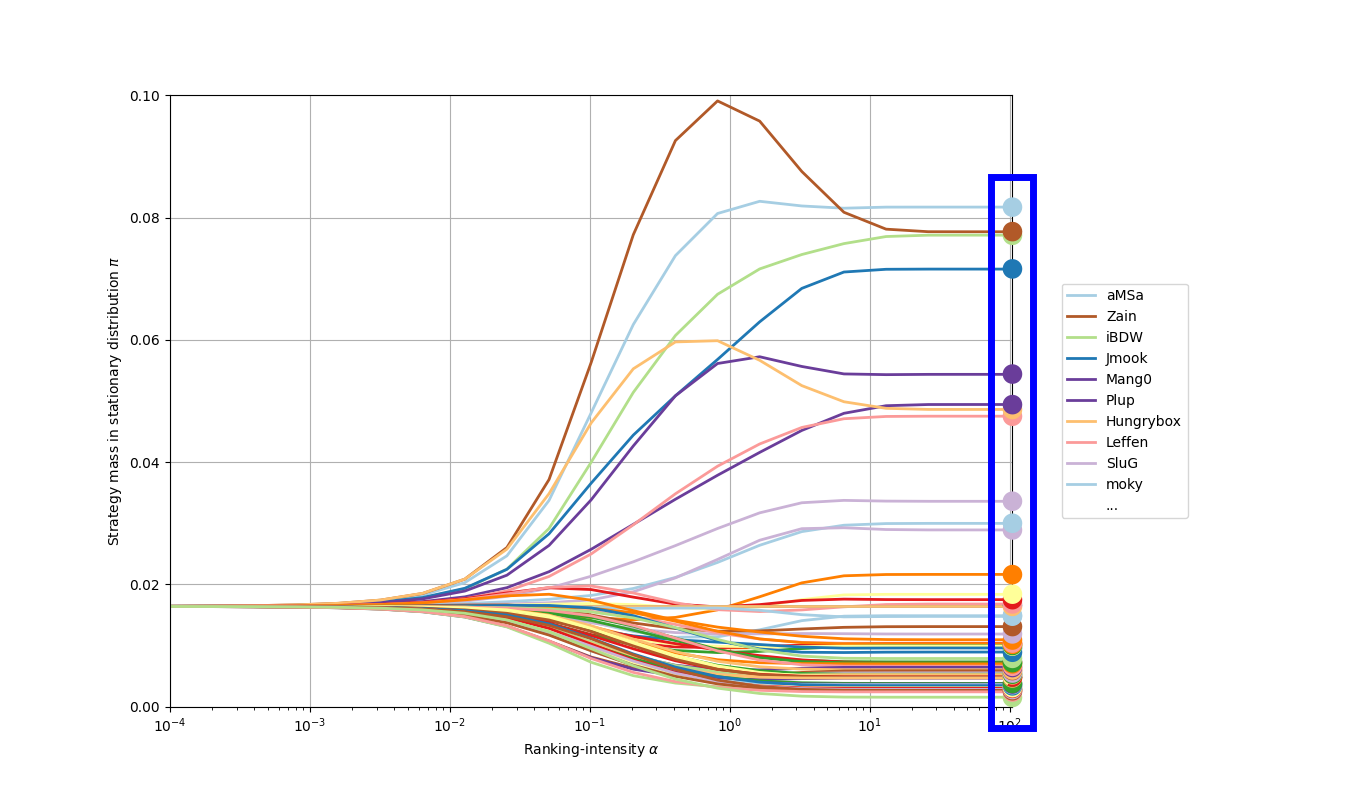
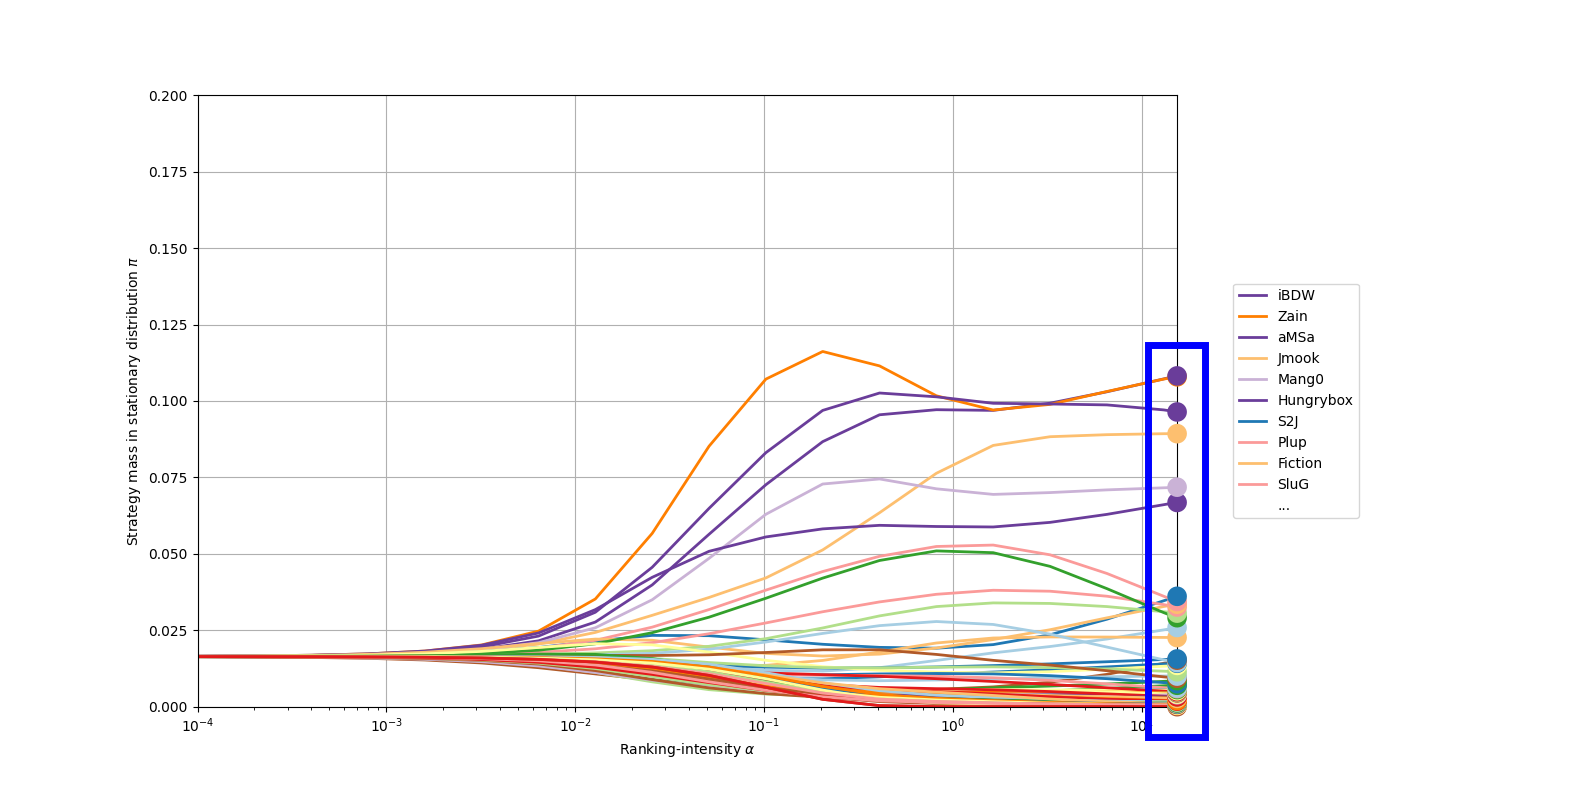
Update README and fix bugs

diff --git a/alpha_smash.py b/alpha_smash.py
@@ -23,8 +23,8 @@ if __name__ == "__main__":
     payoff_tables = [heuristic_payoff_table.from_matrix_game(matrix_list)]
 
     # Perform sweep of alpha hyperparameter and visualize results
+    player_names = parse_player_names()
     if args.alphasweep:
-        player_names = parse_player_names()
         res = alpharank.sweep_pi_vs_alpha(payoff_tables, visualize=True, return_alpha=True, strat_labels=player_names, legend_sort_clusters=True)
 
     # Check if the game is symmetric (i.e., players have identical strategy sets

diff --git a/README.md b/README.md
@@ -1,62 +1,153 @@
-# Using AlphaRank to rank Smash pros
+# Using AlphaRank to Rank Smash Pros
+**I am not claiming that these are the definitive ranks for this year, I am simply hoping to introduce the community to an exciting new tool that came out of game theory research recently**
+**Please do NOT use this tool for seeding without fully understanding the method or at least consulting me.**
+
 This is a simple script that uses DeepMind's [AlphaRank algorithm](https://arxiv.org/abs/1903.01373) to rank the top 10 Super Smash Bros Melee players for 2022 (so far). (Fair warning: this paper is extremely complicated, I've attempted to explain the core concepts in this README).
 
-AlphaRank is a new game-theoretic evaluation metric for ranking players in a game. Game-theoretic evaluation tools use game-theory (hence the name) to measure players by taking into account *non-transitivity*. Non-transitivity refers to the possibility that player A > B and B > C and yet C > A. The best example of this is the game rock paper scissors, which is entirely non-transitive. 
+When you evaluate head-to-head matchups, you intuitively value certain head-to-heads more than others. An advantage over the #1 best player is obviously more important than the 50th best player. However, if you rank players using head-to-heads, this ranking becomes cyclic (with a huge branching factor equal to the number of players).
 
-Most other metrics assume that games are roughly transitive. For example, they assume that if player A places higher than player B in a tournament, then player A is better than player B. This is not necessarily true, and in fact player A can lose to B and still win the tournament in a double elimination bracket. This happens every time someone makes a losers run.
+AlphaRank is a new game-theoretic evaluation metric for ranking players in a game. Game-theoretic evaluation tools use game-theory (hence the name) to measure players by taking into account *non-transitivity*. Non-transitivity refers to the possibility that player A > B and B > C and yet C > A. The simplest example of this is the game rock paper scissors, which is entirely non-transitive. 
 
-AlphaRank creates a meta-game of players and uses all of the head-to-head counts between players to determine who is the best. It measures each player's "value" according to who they can beat in a head-to-head, weighted according to their opponent's value. (i.e. beating Hugs86 gives you less value than beating Zain). Since AlphaRank analyzes overall winrates, it has no recency bias.
+Most metrics (like those based on torunament placements) assume that games are roughly transitive. For example, they assume that if player A places higher than player B in a tournament, then player A is better than player B. This is not necessarily true, and in fact player A can lose to B and still win the tournament in a double elimination bracket. This happens every time someone wins from the losers bracket, and many other times throughout the tournament.
+
+AlphaRank creates a meta-game of players and uses all of the head-to-head counts between players to determine who is the best. It measures each player's "value" according to who they can beat in a head-to-head, weighted according to their opponent's value (also calclated from head-to-heads). (i.e. beating Hugs86 gives you less value than beating Zain). Also, since AlphaRank analyzes overall winrates, it has no recency bias.
+
+# Usage
+To rank smash players using data.csv, you can use the command:
+```
+python3 alpha_smash.py
+```
+
+To visualize a sweep over the alpha hyperparameter and the dynamics of the metagame with n players you can use the following options:
+
+```
+python3 alpha_smash.py --alphasweep --n_network 10
+```
+
+For more info, use:
+```
+python3 alpha_smash.py --help
+```
 
 
-# How to interpret the results
+# How to Interpret the Results
 Imagine that you are having a competition with another person, and you each get to choose one smash pro as your champion. Let's say you play this game over and over. How would you decide who to pick? You could always choose the player with the highest overall head-to-head winrate (Leffen). However, if your opponent picked Mango, you would lose, because Mango wins that head-to-head in 2022. Therefore, there's a meta-game of choosing strong players, but also varying your choice enough to avoid being predictable. Clearly some players are stronger (IBDW wins more head-to-heads than Axe), but each player can win some matchups. 
 The value in parentheses in the rankings below represents the percent of time that a particular player would be selected by the optimal strategy for this game. The players are ranked in order of who has the highest value, in essence, who is picked the most often in this imaginary meta-game.
 
-**TL;DR** If you could choose one pro to fight for you, AlphaRank measures how often you should pick each player. This is based on their head-to-head winrates weighted according to the strength of the opponent for each head-to-head.
+**Note: The bottom 20-30 players are included because of their effect on the top players, but the rankings assigned to them by Alpha-Rank are inherently less accurate due to the nature of Alpha-Rank and smash competition (high-level players interact more than low-level players). Please don't read too closely into the lower ranks. We would need to include more players to accurately rank them.**
 
-**I am not claiming that these are the definitive ranks for this year, I am simply hoping to introduce the community to an exciting new tool that came out of game theory research recently**
-**Please do NOT use this tool for seeding without fully understanding the method or consulting me**
-
-
-# RESULTS: 2022 Ranking (so far)
-1. Amsa (0.234)
-2. IBDW (0.200)
-3. Zain (0.150)
-4. Mango (0.131)
-5. Leffen (0.106)
-6. Plup (0.085)
-7. Jmook (0.062)
-8. Hbox (0.015)
-9. Wizzrobe (0.008)
-10. Axe (0.001)
+**TL;DR** If you could choose one pro to fight for you, Alpha-Rank measures how often you should pick each player. This is based on their head-to-head winrates weighted according to the strength of the opponent in each head-to-head.
 
 
-# Interesting findings
-* Axe is slightly favored against Jmook, but ranked lower than Wizzrobe who has no winning matchups, but is even against Amsa (the top rated player) .
-* IBDW wins against every player except Amsa, Mango, and Wizzrobe. Amsa has a good winrate against Mango. It's likely that if Mango gets worse (and his value in the meta-game decreases), then IBDW will surpass Amsa.
-* 
+# RESULTS: 2022 Ranking (So far)
+Player          Rank         Score
+------          ----         -----
+Zain            1            0.1057
+iBDW            2            0.1055
+aMSa            3            0.0979
+Jmook           4            0.0892
+Mang0           5            0.0713
+Hungrybox       6            0.0648
+Plup            7            0.0391
+SluG            8            0.0346
+Leffen          9            0.0337
+S2J             10           0.0323
+moky            11           0.0318
+Fiction         12           0.0314
+Axe             13           0.0239
+Joshman         14           0.0227
+lloD            15           0.0169
+Pipsqueak       16           0.0151
+Krudo           17           0.0136
+KoDoRiN         18           0.0128
+null            19           0.0127
+Ginger          20           0.0119
+Aklo            21           0.0105
+SFAT            22           0.0100
+n0ne            23           0.0084
+Lucky           24           0.0079
+Polish          25           0.0067
+2saint          26           0.0065
+Spark           27           0.0056
+Soonsay         28           0.0055
+Magi            29           0.0054
+Salt            30           0.0053
+Zuppy           30           0.0053
+Mekk            31           0.0047
+The SWOOPER     32           0.0045
+bobby big ballz 33           0.0044
+Jflex           33           0.0044
+Wizzrobe        34           0.0037
+Suf             35           0.0036
+Bbatts          36           0.0034
+Zamu            37           0.0032
+Skerzo          38           0.0030
+Ben             38           0.0030
+Smashdaddy      39           0.0023
+KJH             40           0.0021
+Frenzy          41           0.0017
+Medz            42           0.0016
+Aura            43           0.0013
+Panda           43           0.0013
+Professor Pro   44           0.0011
+Albert          45           0.0009
+Swift           46           0.0008
+Solobattle      46           0.0008
+Chem            47           0.0007
+Faceroll        47           0.0007
+Kalamazhu       47           0.0007
+Eddy Mexico     48           0.0006
+Logan           49           0.0005
+Colbol          49           0.0005
+Trif            49           0.0005
+Gahtzu          50           0.0004
+Ice             51           0.0000
+Nicki           51           0.0000
 
 
-# Data collection
-The data used for these calculations can be found here: [https://docs.google.com/spreadsheets/d/1aKbdUyHWW5xR4jzMKRa1YdHeQMvcz744I5VtEYn8EVs/edit?usp=sharing](https://docs.google.com/spreadsheets/d/1aKbdUyHWW5xR4jzMKRa1YdHeQMvcz744I5VtEYn8EVs/edit?usp=sharing)
+# Interesting Findings
+* Zain and IBDW are effectively tied for Rank 1. Either of them could easily edge out #1 by winning the upcoming tournaments.
+* The top 6 players are clearly separated from the rest. Zain, IBDW, aMSa, JMook, Mang0, and HungryBox have significantly more value than Plup, the next highest player.
+* While top 6 is clearly above the rest, each player in that tier has a noticeable drop in value from the previous rank, indicating a high level of confidence in the ordering of top 6.
+* The next 5 players (rank 7 - 12) Plup, Slug, Leffen, S2J and Fiction are all close to each other, and noticeably higher valued than rank 13 and below. We see a clear Top 6 tier and Top 12 tier in these results.
+* The rankings become less well definined the farther down the list we go. There are far more ties below rank 30. I recommend not reading into ranks below 30 too much, as they are clearly less accurate.
+* I included Ice and Nicki because they have 0 tournament sets this year (according to my data) to demonstrate that the attendance bonus causes these players to be ranked last.
+* It is possible for top players to win so many matchups that weaker players have a value of 0.0 in the meta-game. The fact that all players (aside from Nikki and Ice who have 0 attendance) have some value in the meta-game is a good sign for the health of the game.
 
-Thanks to ASAP_Hari on twitch for collecting most of the data that I used. The winrates used in this project come from liquipedia. I used data from offline-only supermajor, major, and invitational tournaments held Jan 1 - November 21, 2022 (including Apex 2022).
 
-# Winrate calculation
-Formula ($w_A$ - $w_B$) / ($w_A$ + $w_B$) where $w_A$ and $w_B$ are the set wins for players A and B respectively
-i.e. 0.00 represents a 50% winrate, 1.00 represents a 100% winrate, -1.00 represents a -100% winrate
-Note: This does not account for absolute number of wins. i.e. 1-2, 2-4, and 4-8 all have the value -0.33
+# Data Collection
+The data used for these calculations can be found here: [https://docs.google.com/spreadsheets/d/1e08K2EzNQWR3Q4T5ZWVd2bP53nEg_rBqUf_Clj0muHc/](https://docs.google.com/spreadsheets/d/1e08K2EzNQWR3Q4T5ZWVd2bP53nEg_rBqUf_Clj0muHc/)
 
-# Caveats
-* As with any ranking system, there are some limitations to the approach. If these were the only 10 players in the world, these rankings would be almost definitely correct. However, if you add in any new players that have wins against these top players (Slug, Joshman, Pipsqueak, etc) to the calculations, they could affect the rankings slightly. Naturally those players have fewer wins, so their impact on the meta-game is lower, but it could change certain close orderings (like swapping Hbox and Wizzrobe for example).
-* This calculation does not account for variance in the estimates. An 8-2 record has the same value as 4-1 in these calculations. Naturally many of these winrates are extremely inaccurate. For example, amango has a 100% winrate against Leffen this year, whereas lifetime they are (Mango) 17 - 13 (Leffen). However, there is no unbiased way to favor one player over the other in the absence of data, so I don't believe you can do any better in this case.
+Data includes all offline super major, major, invitational and tournaments that occurred so far in 2022 (up to and including Apex 2022).
 
-# Hyperparameter sweep
-AlphaRank has one hyperparameter, alpha. This controls how many levels of couterplay there are in the meta-game. Think of this as how many steps ahead you imagine in Rock Paper Scissors (i.e. He thinks I think that he thinks that I think that he's going to choose Paper, so I'll choose Rock). At an infinite planning horizon, there is a fixed point that represents the distribution of players in a meta game with infinite adaptation (the "true" meta-game). Using smaller alpha values gives you a meta-game with less "planning-ahead". Here is a sweep over the values of alpha which shows how the distribution changes as you increase alpha.
+
+# Matchup Value Calculation
+To use Alpha-Rank, you need to assign a value to each matchup. I implemented two methods, linear and scalar weighting. These results use linear weighting, but scalar does not result in noticeably different rankings. Using the linear method, each matchup is assigned the value equal to the players wins - minus their losses. For example, Mango - IBDW is a 5-1 matchup. Mango gets the value 4 for this matchup while IBDW gets the value -4.
+
+# Attendance Bonus
+Without any modification, the value calculation above heavily favors low attendance because a 0-0 record against a top player is better than a losing record. To account for this, all 0-0 matchups are assigned a value based on the relative attendance of each player.
+For any matchup without data, we set the value to $(s_A - s_B) / (s_A + s_B)$ where $s_A$ and $s_B$ are the number of sets played this year by player A and B respectively.
+E.g. For $s_A = 10$ and $s_B = 0$, the bonus is 1, for $ s_A = s_B = 10$, the bonus is 0.
+Since this only applies to unplayed matchups, it is not possible for players to inflate their value against anyone they have played this year by simply attending more tournaments.
+
+
+# Alpha Hyperparameter Sweep
+Alpha-Rank has one hyperparameter, alpha. This controls how many levels of couterplay there are in the meta-game. Think of this as how many steps ahead you imagine in Rock Paper Scissors (i.e. He thinks I think that he thinks that I think that he's going to choose Paper, so I'll choose Rock). At an infinite planning horizon, there is a fixed point that represents the distribution of players in a meta game with infinite adaptation (the "true" meta-game). Using smaller alpha values gives you a meta-game with less "planning-ahead". Here is a sweep over the values of alpha which shows how the distribution changes as you increase alpha. We always use the highest possible value of alpha for actual rankings.
 
 ![Alpha sweep](https://github.com/RyanNavillus/AlphaSmash/blob/main/Smash_sweep.png)
 
 Interestingly Mango appears to beat many players in the uniform meta-game. However, as the distribution shifts to favor Amsa, Mango's value decreases because that's a losing matchup for him. The same is true for Leffen and Zain to a lesser degree. Likewise Plup becomes more popular of a choice as Amsa's value increases because of his 1-0 record against Amsa.
 
-# Future Plans
-I plan to add in a feature that allows you to make small changes to the winrates and check how that affects the rankings. It should be easy so I'll try to do it this week.
+
+# Equillibrium Network
+The following network shows the rate at which you would switch to a partiular player when facing off against another player. For example, the arrow pointing from Mang0 to aMSa labeled 50 (the max value) indicates that if you are currently choosing Mang0 as your champion, then you would switch to choosing aMSa as fast as possible. We only visualize the top 12 here for visual clarity, and as noted above, top 12 appears to be in a separate tier above the rest according to Alpha-Rank.
+
+![Alpha Network](https://github.com/RyanNavillus/AlphaSmash/blob/main/Smash_network.png)
+
+This shows you where players are getting value and losing value in the meta-game. For example, IBDW is getting value from most players because he has much more favorable head to heads. However, he loses some value Moky, Leffen, and Mang0 because he has losing records against them.
+
+This also gives you a good intuition for how Alpha-Rank works. Value flows into players from their strong matchups and out from their weak matchups. If you consider all of these matchups at once, eventually this reaches an equillibrium where each people choose each node as their strategy a certain percent of the time, and there's a certain flow rate between each node.
+
+
+# Testing Hypothetical Results
+You can modify data.csv and re-run AlphaSmash to test hypothetical results. For example, how would JMook be ranked if he had an even matchup against HBox? What if Mang0 wins the Smash World Tour Championshipsi, beating Amsa, Zain, and Fiction? What if Leffen never lost to Lovage in 2017?
